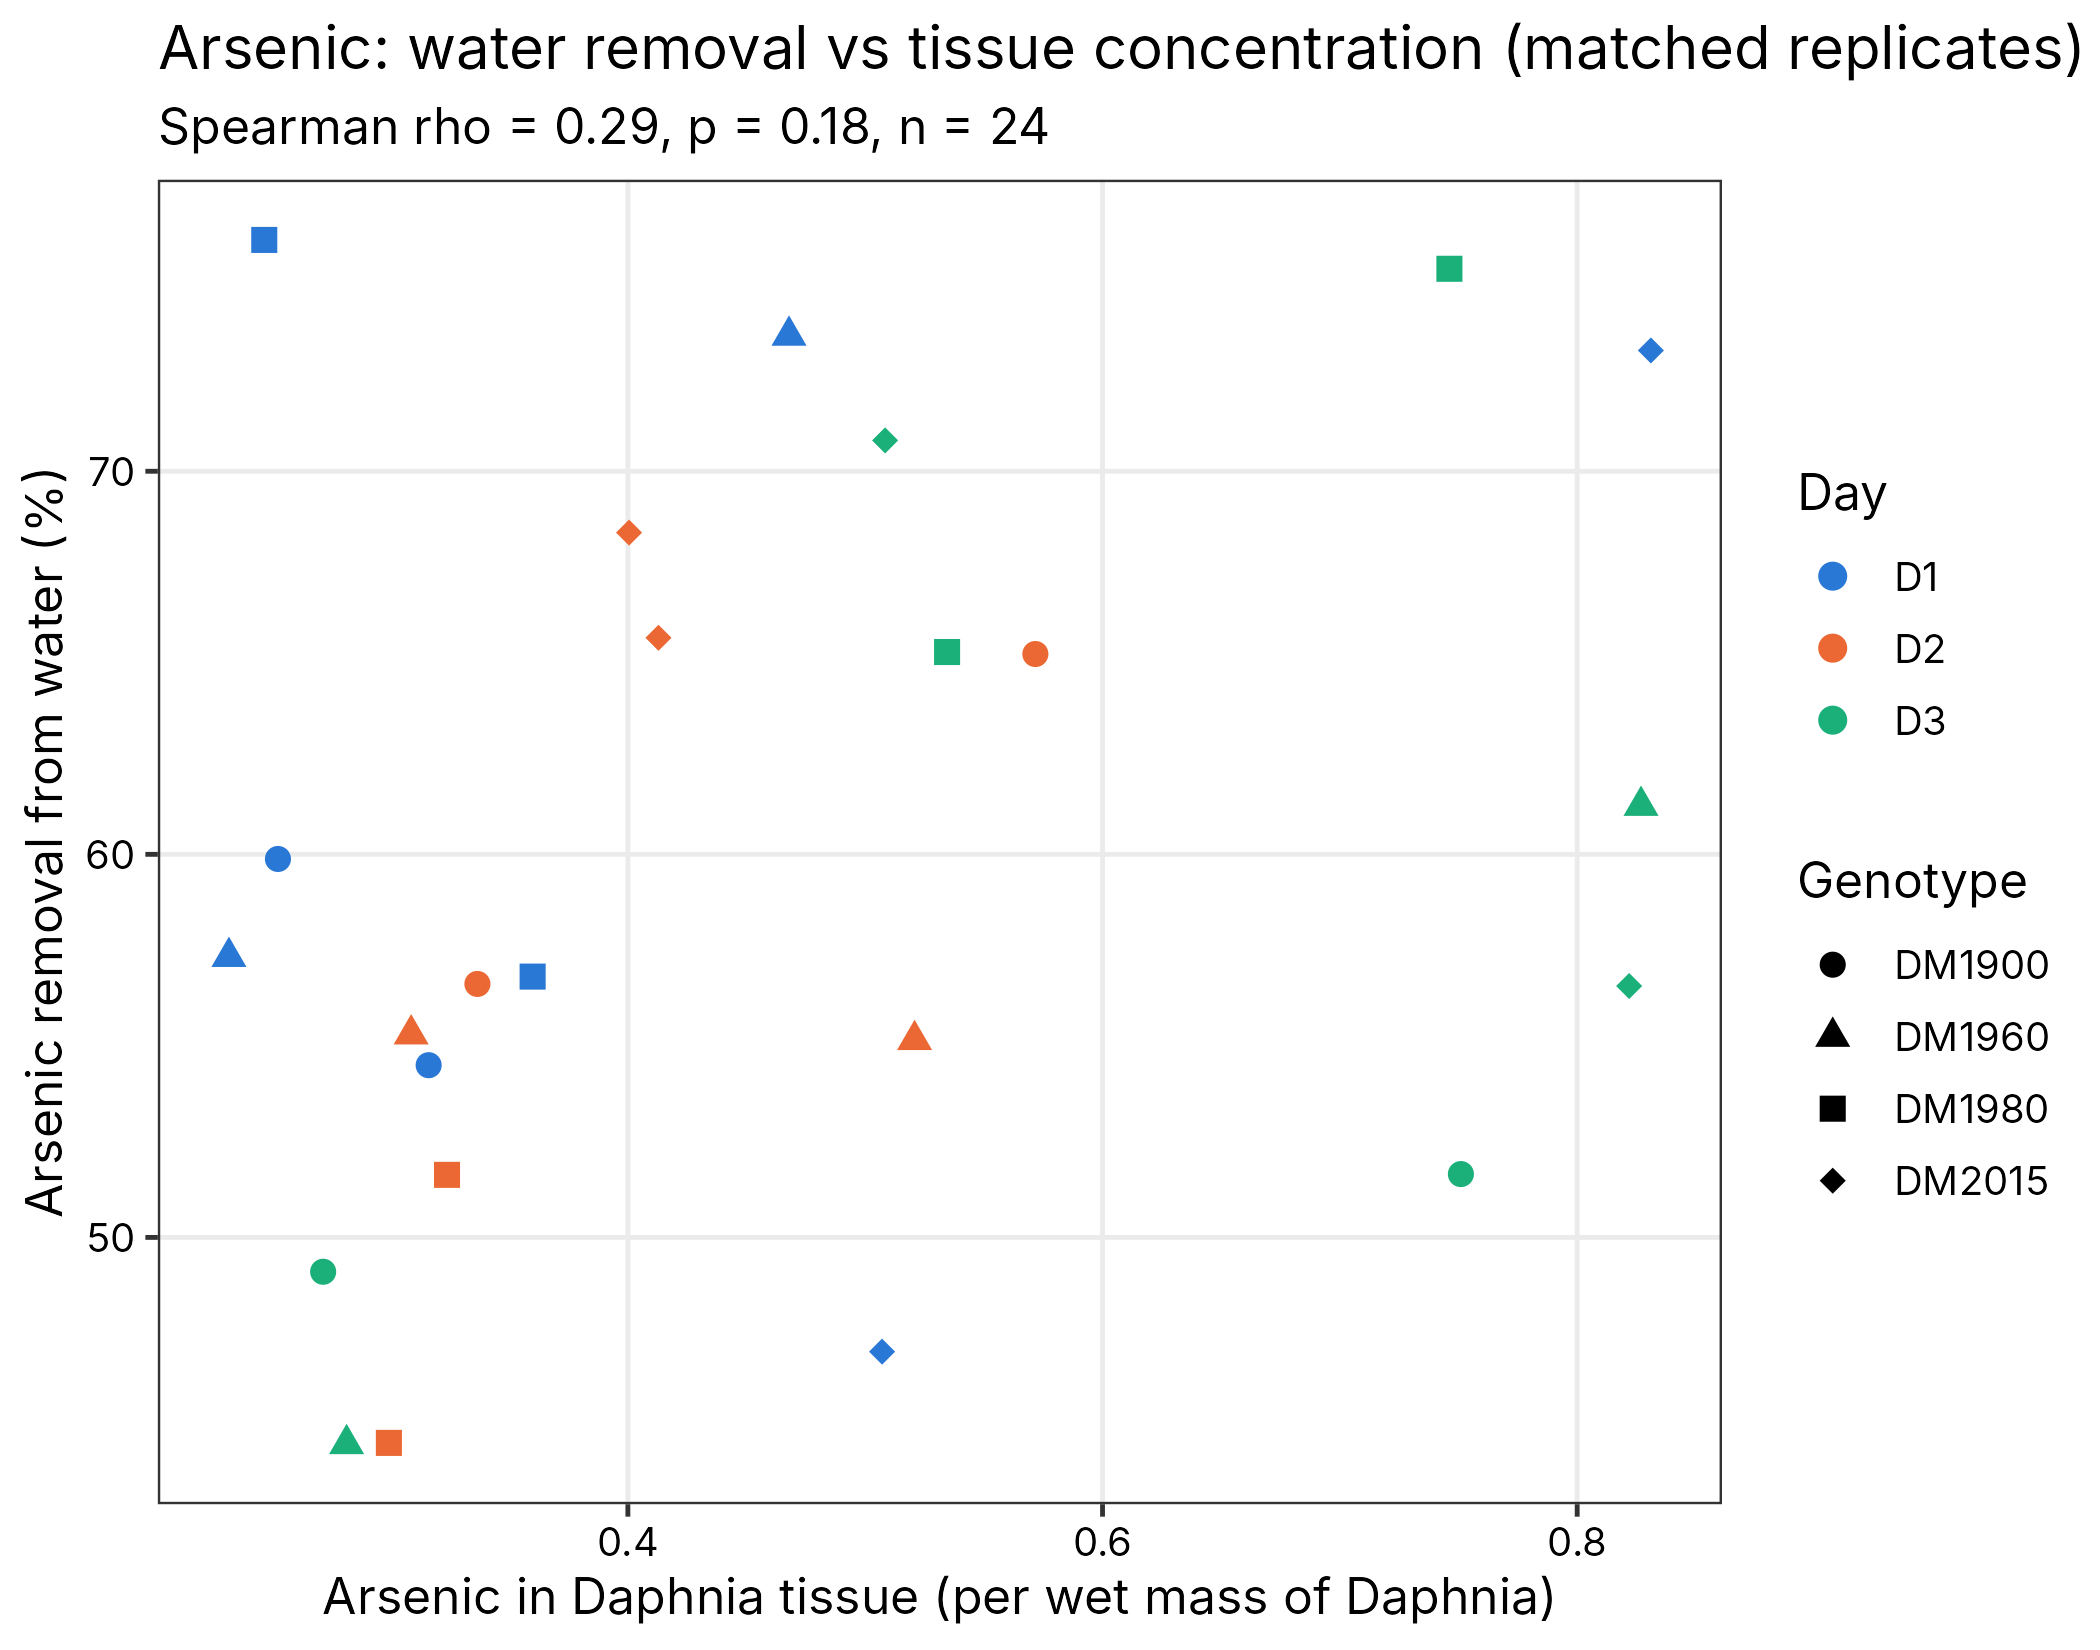
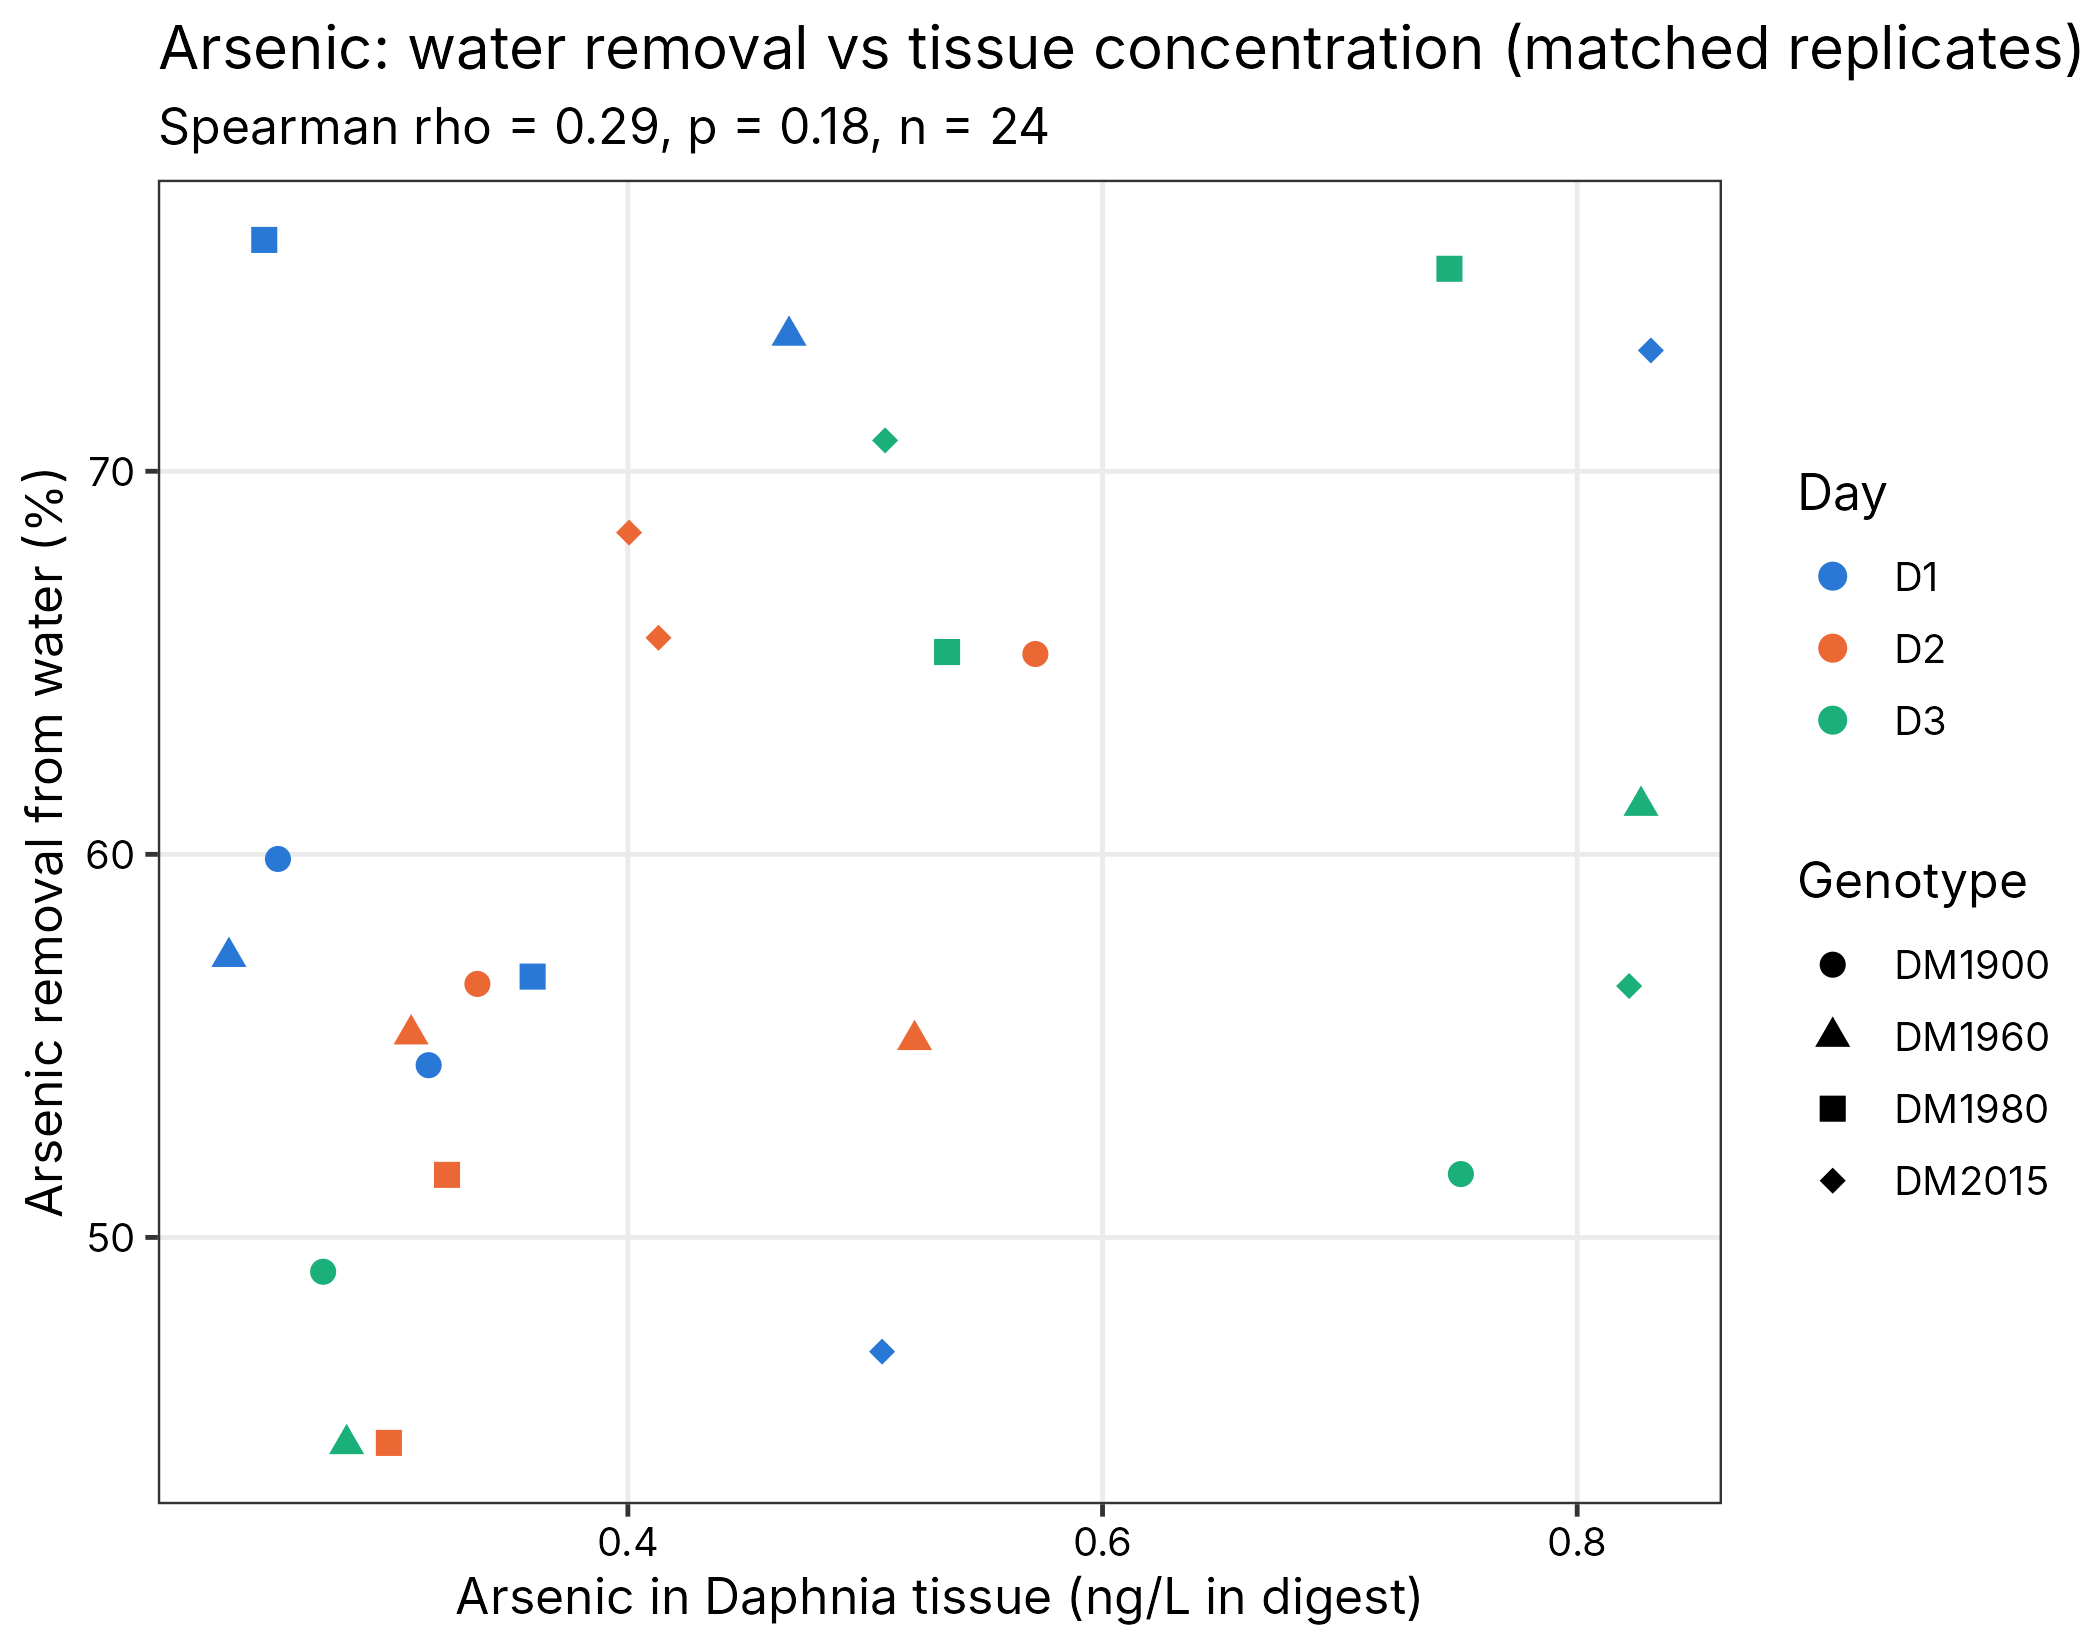
Label arsenic tissue values as ng/L in digest
Claude-Session: https://claude.ai/code/session_01Q4ez1oHjNgnYUvR6AcaCKb

Changed region(s): [[0.1548, 0.9582, 0.7429, 0.9891]]

diff --git a/mass_balance/README.md b/mass_balance/README.md
@@ -41,10 +41,10 @@ Rscript mass_balance/mass_balance_plots.R
    swapped, and DM1900 Day 1 and Day 3 have both replicates labelled 1
    (fixed in the script; matches Table S2 raw). Control water values are
    identical on all three days (858.4 / 719.1).
-7. **Tissue units**: the tissue sheet header says "ng/L", but the values are
-   per wet mass of Daphnia (confirmed). The plots label them "per wet mass of
-   Daphnia"; set `tissue_unit` in the script to the exact unit (e.g. ng/mg wet
-   weight) once known.
+7. **Tissue units**: the arsenic tissue values are ng/L in the digested
+   Daphnia samples (confirmed). Daphnia were not weighed, so they cannot be
+   expressed per mass; converting to ng per sample needs the digest volume,
+   and comparisons assume the same number of Daphnia per sample.
 8. **Genotype names differ between files**: `LR2_36_01` / `LRII_36` / `LRII3_16`
    and `LRV_01` / `LRV0_1` / `LRV_0_1`. The correct names are `LRII_36` and
    `LRV0_1`; the script uses these in all outputs.
